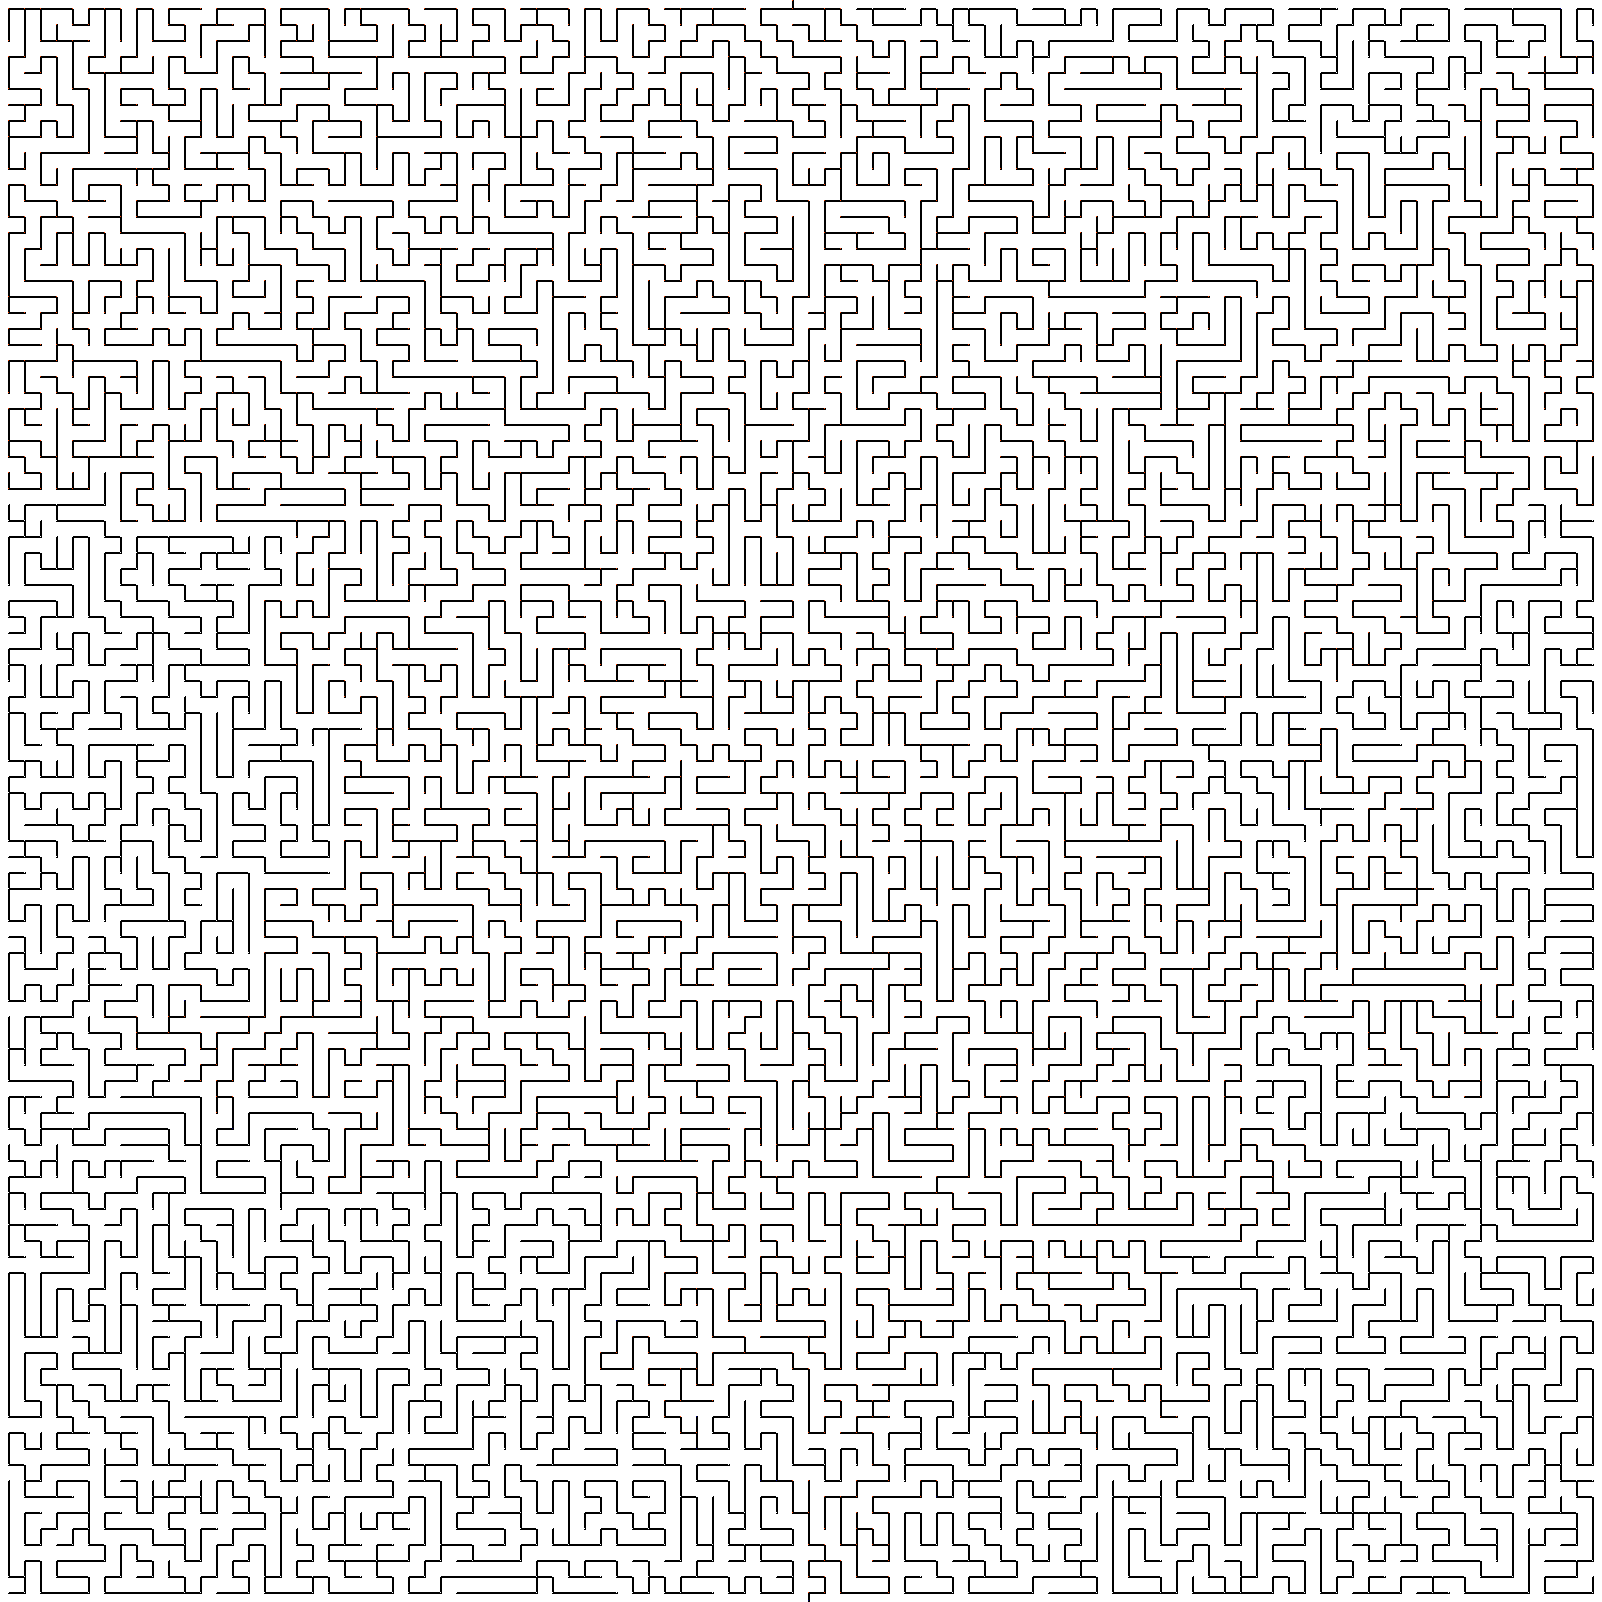
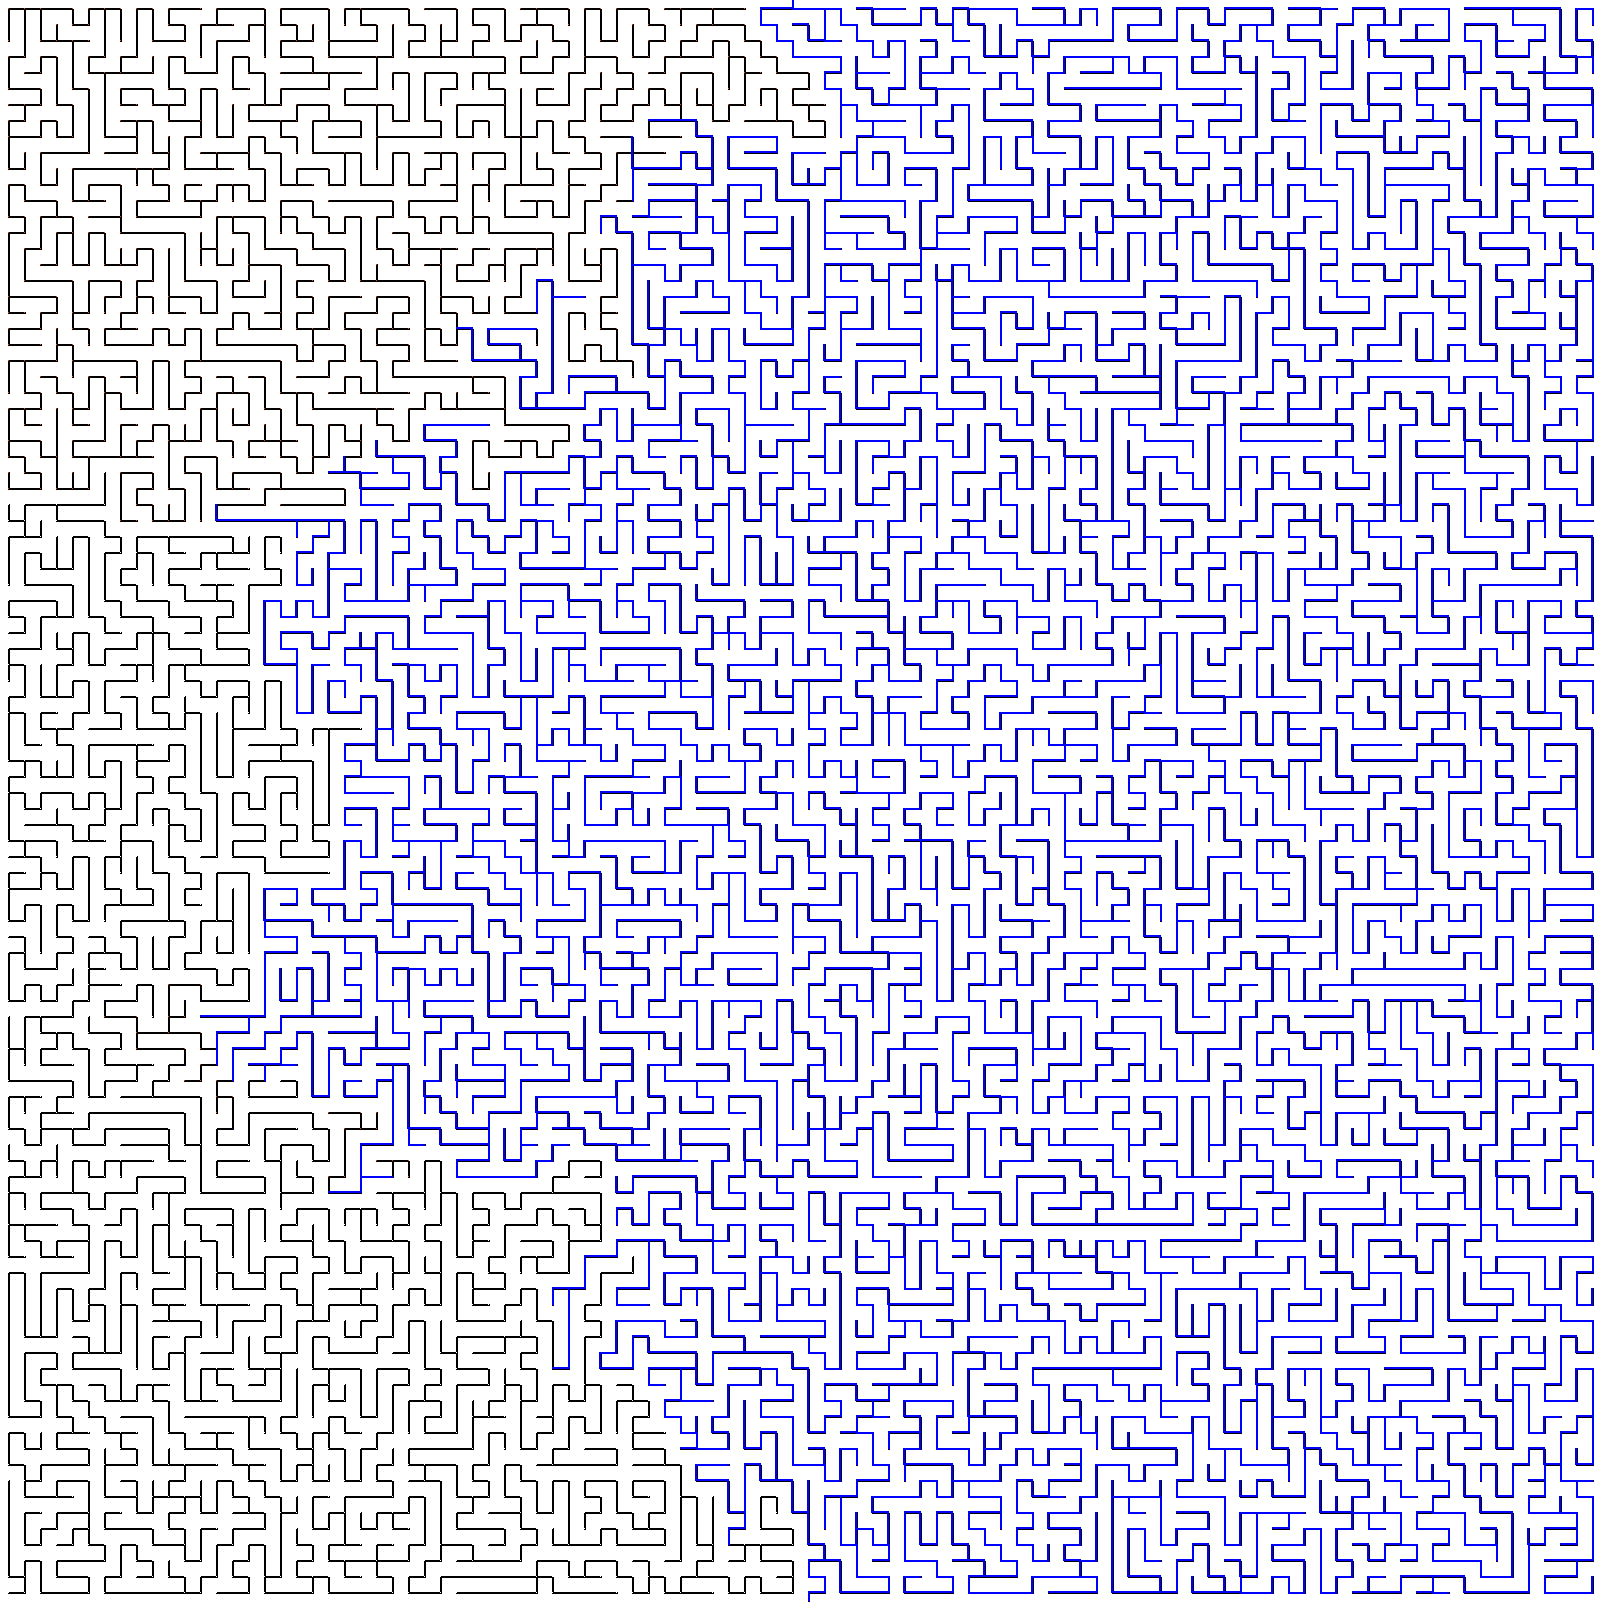
Busca A*

Changed region(s): [[0.1248, 0.0, 0.9988, 0.9988], [0.3745, 0.8115, 0.4057, 0.8427]]

diff --git a/main.py b/main.py
@@ -5,31 +5,29 @@ from PIL import Image
 
 import base.funcoes as fn
 from base.grafo import Graph_state
-from base.buscas import BuscaLargura, BuscaProfundidade, BuscaCustoUniforme, BuscaGreedy
+from base.buscas import BuscaLargura, BuscaProfundidade, BuscaCustoUniforme, BuscaGreedy, BuscaAEstrela
 
-# Cria função main
-
-
+#Cria função main
 def main():
-    # Cria funçao de manipulação do tempo, desde o start da aplicação até o fim dela.
+    #Cria funçao de manipulação do tempo, desde o start da aplicação até o fim dela.
     t0 = time.time()
 
     #img_data = load_image('4 by 4 orthogonal maze.png')
-    # Carrega a imagem passada na pasta do labirinto, com o nome da imagem "labirinto.png"
+    #Carrega a imagem passada na pasta do labirinto, com o nome da imagem "labirinto.png"
     img_data = fn.load_image('labirintos/labirinto.png')
     #img_data = load_image('100 by 100 orthogonal maze.png')
 
-    # Armazena os valores do meu labirinto=img_data. Armazena em l_entrada o inicio do meu
-    # labirinto em X=linha, armazena em c_entrada o inicio do meu labirinto em Y=coluna.
+    #Armazena os valores do meu labirinto=img_data. Armazena em l_entrada o inicio do meu
+    #labirinto em X=linha, armazena em c_entrada o inicio do meu labirinto em Y=coluna.
     l_entrada, c_entrada = fn.find_entry(img_data)
-    # Armazena os valores de saída do meu labirinto=img_data. Armazena em lex o fim do meu
-    # labirinto na linha em X=linha, armazena em cex o fim do meu labirinto em Y=coluna.
+    #Armazena os valores de saída do meu labirinto=img_data. Armazena em lex o fim do meu 
+    #labirinto na linha em X=linha, armazena em cex o fim do meu labirinto em Y=coluna.
     lex, cex = fn.find_exit(img_data)
-    # Aqui está passando os valores da minha saída e definindo no meu objetivo.
+    #Aqui está passando os valores da minha saída e definindo no meu objetivo.
     objective = (lex, cex)
-    # Imprime na tela minha entrada.
+    #Imprime na tela minha entrada.
     print("entrada: ", l_entrada, c_entrada)
-    # Imprime na tela meu objetivo=saída.
+    #Imprime na tela meu objetivo=saída.
     print("saida: ", objective, "\n")
 
     start_point = Graph_state(l_entrada, c_entrada, True)
@@ -40,6 +38,7 @@ def main():
 
     fn.count_custo(start_point, objective)
 
+    print("Iniciando Busca em Largura")
     buscaLargura = BuscaLargura()
     t_ini = time.time()
     buscaLargura.search(img_data, start_point)
@@ -47,6 +46,7 @@ def main():
     fn.printSpecs(t_ini, t_fim, buscaLargura)
     fn.drawLines(img_data, buscaLargura.visitado, "Largura")
 
+    print("Iniciando Busca Profundidade")
     buscaProfundidade = BuscaProfundidade()
     t_ini = time.time()
     buscaProfundidade.search(img_data, start_point)
@@ -54,20 +54,29 @@ def main():
     fn.printSpecs(t_ini, t_fim, buscaProfundidade)
     fn.drawLines(img_data, buscaLargura.visitado, "Profundidade")
 
+    print("Iniciando Busca Custo Uniforme")
     buscaCustoUniforme = BuscaCustoUniforme()
     t_ini = time.time()
     buscaCustoUniforme.search(img_data, start_point)
     t_fim = time.time()
     fn.printSpecs(t_ini, t_fim, buscaCustoUniforme)
-    fn.drawLines(img_data, buscaCustoUniforme.marcado, "Uniforme")
+    fn.drawLines(img_data, buscaCustoUniforme.resultado, "Uniforme")
 
+    print("Iniciando Busca Greedy")
     buscaGreedy = BuscaGreedy()
     t_ini = time.time()
     buscaGreedy.search(img_data, start_point)
     t_fim = time.time()
     fn.printSpecs(t_ini, t_fim, buscaGreedy)
-    fn.drawLines(img_data, buscaGreedy.marcado, "Greedy")
+    fn.drawLines(img_data, buscaGreedy.resultado, "Greedy")
 
+    print("Iniciando Busca A*")
+    buscaAEstrela = BuscaAEstrela()
+    t_ini = time.time()
+    buscaAEstrela.search(img_data, start_point)
+    t_fim = time.time()
+    fn.printSpecs(t_ini, t_fim, buscaAEstrela)
+    fn.drawLines(img_data, buscaAEstrela.resultado, "A_Estrela")
 
 if __name__ == '__main__':
     main()

diff --git a/base/buscas.py b/base/buscas.py
@@ -202,11 +202,11 @@ class BuscaGreedy(Buscas):
         self.name = "Busca Greedy (Gulosa)"
 
     def search(self, data, estado_pai):
-        frontier = ReversePriorityQueue()
+        frontier = PriorityQueue()
         frontier.put((0, estado_pai))
 
         while not frontier.empty():
-            ucs_w, current_node = frontier.get()
+            ucs_w, current_node = frontier.get_nowait()
             self.visitado.append(current_node)
 
             if current_node.goal:
@@ -221,3 +221,38 @@ class BuscaGreedy(Buscas):
                     frontier.put(
                         (custo, filho)
                     )
+
+
+class BuscaAEstrela(Buscas):
+    def __init__(self):
+        super().__init__()
+        self.name = "Busca A* (A Estrela)"
+        self.came_from = {}
+        self.cost_so_far = {}
+
+    def heuristic(self, a, b):
+        (x1, y1) = a.line, a.column
+        (x2, y2) = b.line, b.column
+        return abs(x1 - x2) + abs(y1 - y2)
+
+    def search(self, data, estado_pai):
+        frontier = PriorityQueue()
+        frontier.put((0, estado_pai))
+
+        self.cost_so_far[estado_pai] = 0
+
+        while not frontier.empty():
+            ucs_w, current = frontier.get_nowait()
+            self.visitado.append(current)
+
+            if current.goal:
+                # print("Cheguei no final! ", current_node)
+                return
+
+            for next in current.children:
+                new_cost = ucs_w + current.arestas[next].custo
+                filho = current.arestas[next].g_fim
+                if next not in self.cost_so_far or new_cost < ucs_w:
+                    priority = new_cost + current.arestas[next].custoH
+                    self.resultado.append((current, filho))
+                    frontier.put((priority, filho))

diff --git a/base/grafo.py b/base/grafo.py
@@ -47,6 +47,11 @@ class Graph_state:
         return ((self.line, self.column) <
                 (other.line, other.column))
 
+    def __le__(self, other):
+        return ((self.line, self.column) >
+                (other.line, other.column))
+
+
 
 # Cria uma classe aresta e define um objeto nos parametros para utilizar
 class Aresta(object):
@@ -77,38 +82,9 @@ class Aresta(object):
         oX, oY = objetivo[0], objetivo[1]
         gX, gY = self.g_ini.column, self.g_ini.line
 
-        self.custoH = (oX - gX) + (oY - gY)
+        self.custoH = abs(oX - gX) + abs(oY - gY)
         if self.custoH < 0:
             self.custoH = self.custoH * -1
 
     def __str__(self):
         return str(self.g_ini) + " " + str(self.g_fim) + " " + str(self.custo) + " " + str(self.custoH)
-
-
-# def busca_largura(data, estado_pai):
-#     visitado = list()
-#     marcado = list()
-#     resultado = list()
-
-#     visitado.append(estado_pai)
-
-#     if estado_pai in marcado:
-#         marcado.remove(estado_pai)
-#     print("Visitado: %s" % str(estado_pai))
-
-#     for estado_filho in estado_pai.children:
-#         if not estado_filho in marcado and not estado_filho in visitado:
-#             marcado.append(estado_filho)
-#             print("Marcado: %s" % str(estado_filho))
-
-#     for estado_filho in marcado:
-#         busca_largura(data, estado_filho)
-
-#     if estado_pai.goal:
-#         data[estado_pai.line][estado_pai.column] = [255, 0, 0, 255]
-#         resultado.append(estado_pai)
-
-#     for estado_filho in estado_pai.children:
-#         if estado_filho in resultado:
-#             data[estado_pai.line][estado_pai.column] = [255, 0, 0, 255]
-#             resultado.append(estado_pai)
